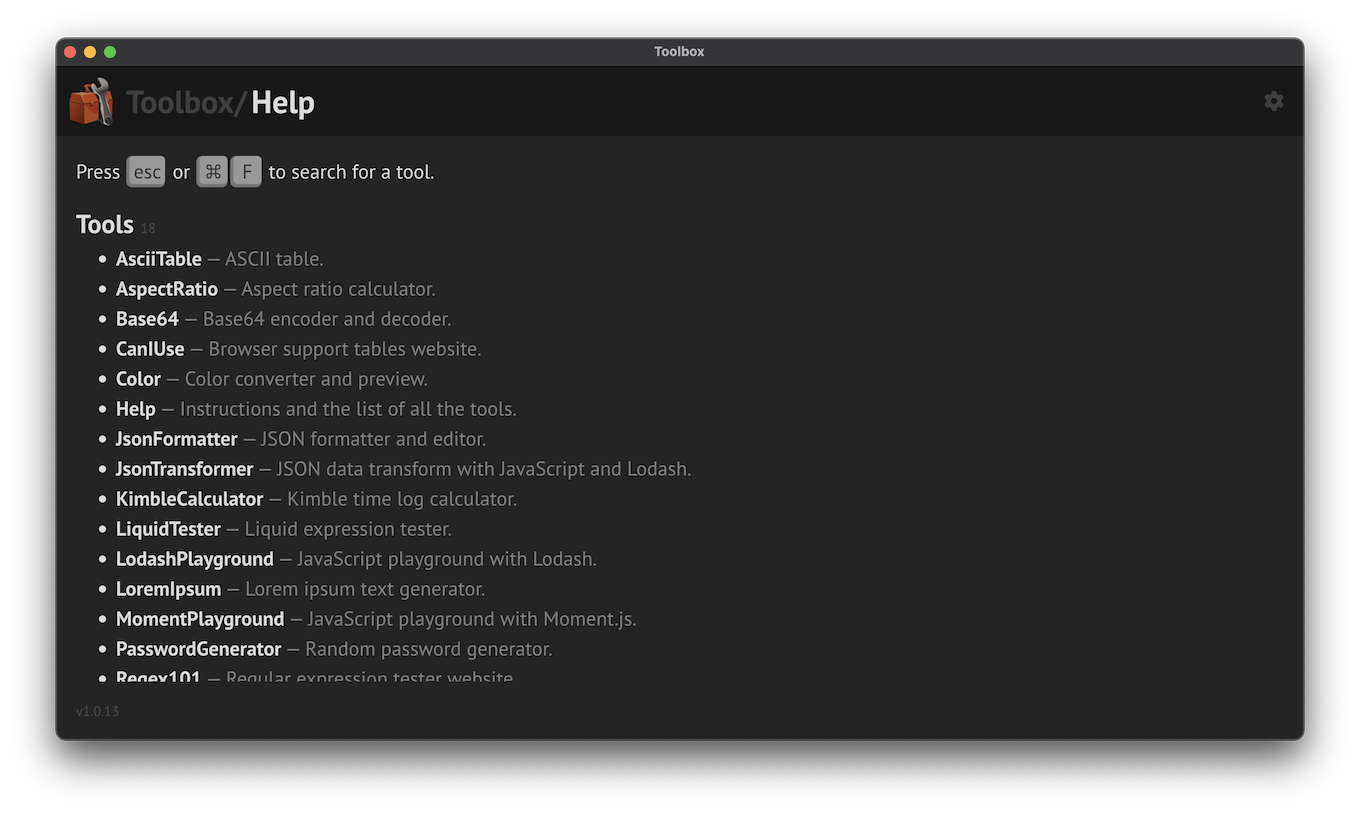
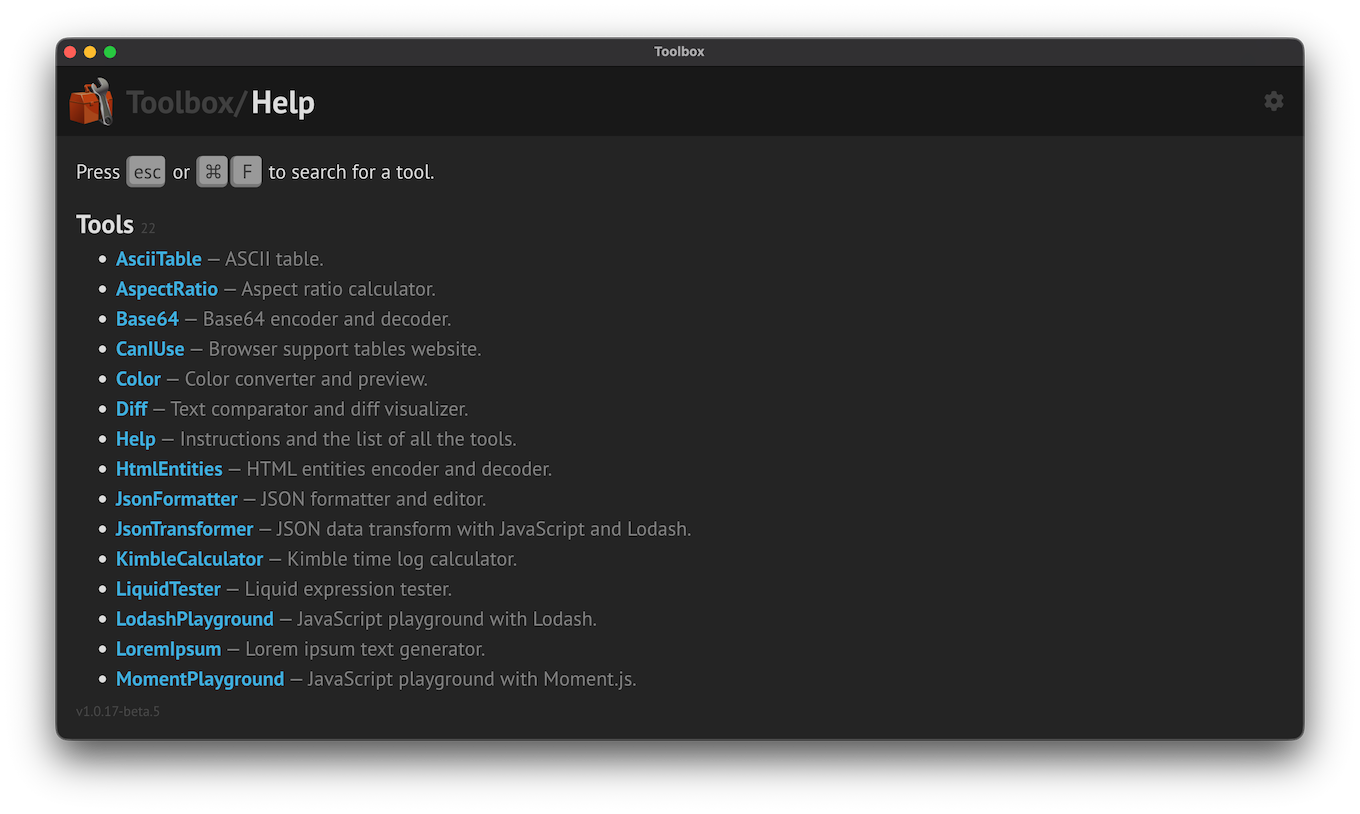
Added Diff tool

Changed region(s): [[0.0618, 0.3071, 0.525, 0.86], [0.0618, 0.0614, 0.0926, 0.0921]]

diff --git a/src/renderer/tools/Diff.tsx b/src/renderer/tools/Diff.tsx
@@ -1,0 +1,182 @@
+import React, { FC, useEffect, useRef, useState } from "react";
+import styled from "styled-components";
+import { CopyButton, PasteButton } from "../common/Buttons";
+import { Footer } from "../common/Footer";
+import { Unit } from "../common/Unit";
+import { Value } from "../common/Value";
+import { FieldLabel } from "../fields";
+import { usePersistedState } from "../persistedState";
+import { registerTool, ToolProps } from "../toolStore";
+import { displayName, reindent } from "../utils";
+import { DiffEditor, loader } from "@monaco-editor/react";
+import * as monaco from "monaco-editor/esm/vs/editor/editor.api";
+import type { editor } from "monaco-editor";
+
+loader.config({ monaco });
+
+const initialBefore = reindent(`
+  One
+  Twooo
+  Three
+  Four
+  Six
+  Seven
+  Seven
+  Seven
+  Eight
+  Nine
+  Ten
+  ---
+  hello world
+`);
+
+const initialAfter = reindent(`
+  One
+  Two
+  Three
+  Four
+  Five
+  Six
+  Seven
+  Eight
+  Nine
+  Ten
+  ---
+  Hello World!
+`);
+
+const Container = displayName(
+  "Container",
+  styled.div`
+    display: grid;
+    grid-template:
+      "header" 0fr
+      "editor" 1fr
+      / 1fr;
+    gap: var(--gap-size);
+    overflow: hidden;
+    height: 100%;
+  `,
+);
+
+interface HeaderProps {
+  $leftWidthPx?: number | null;
+}
+
+const Header = displayName(
+  "Header",
+  styled.div<HeaderProps>`
+    display: grid;
+    grid-template-columns: ${({ $leftWidthPx }) =>
+      $leftWidthPx ? `${$leftWidthPx}px 1fr` : "1fr 1fr"};
+    gap: var(--gap-size);
+  `,
+);
+
+const PaneHeader = displayName(
+  "PaneHeader",
+  styled.div`
+    display: flex;
+    align-items: center;
+    gap: var(--gap-size);
+  `,
+);
+
+const Diff: FC<ToolProps> = () => {
+  const [before, setBefore] = usePersistedState(Diff, "before", initialBefore);
+  const [after, setAfter] = usePersistedState(Diff, "after", initialAfter);
+  const editorRef = useRef<editor.IStandaloneDiffEditor | null>(null);
+  const [leftWidthPx, setLeftWidthPx] = useState<number | null>(null);
+  const [diffCount, setDiffCount] = useState<number>(0);
+
+  // Stable initial values: passed to DiffEditor only on mount so that
+  // @monaco-editor/react never calls model.setValue() during typing
+  // (it does so unconditionally whenever the `original`/`modified` props change).
+  const stableOriginal = useRef(before);
+  const stableModified = useRef(after);
+
+  // Last values Monaco reported back to us, used to tell user edits
+  // (Monaco → state) apart from external changes (paste → Monaco).
+  const syncedBefore = useRef(before);
+  const syncedAfter = useRef(after);
+
+  // Push external state changes (paste) into Monaco without touching
+  // the `original`/`modified` props (which would reset the cursor).
+  useEffect(() => {
+    if (before !== syncedBefore.current) {
+      syncedBefore.current = before;
+      editorRef.current?.getOriginalEditor().setValue(before);
+    }
+  }, [before]);
+
+  useEffect(() => {
+    if (after !== syncedAfter.current) {
+      syncedAfter.current = after;
+      editorRef.current?.getModifiedEditor().setValue(after);
+    }
+  }, [after]);
+
+  return (
+    <Container>
+      <Header $leftWidthPx={leftWidthPx}>
+        <PaneHeader>
+          <FieldLabel style={{ flexGrow: 1 }}>Before</FieldLabel>
+          <CopyButton name="before" state={before} />
+          <PasteButton name="before" setState={setBefore} />
+        </PaneHeader>
+        <PaneHeader>
+          <FieldLabel style={{ flexGrow: 1, marginLeft: "25px" }}>
+            After
+          </FieldLabel>
+          <CopyButton name="after" state={after} />
+          <PasteButton name="after" setState={setAfter} />
+        </PaneHeader>
+      </Header>
+      <DiffEditor
+        language="plaintext"
+        modified={stableModified.current}
+        options={{
+          fontSize: 16,
+          minimap: { enabled: false },
+          originalEditable: true,
+          parameterHints: { enabled: false },
+          quickSuggestions: false,
+          scrollBeyondLastLine: false,
+          suggestOnTriggerCharacters: false,
+        }}
+        original={stableOriginal.current}
+        theme="vs-dark"
+        onMount={(editor) => {
+          editorRef.current = editor;
+          const syncWidth = () =>
+            setLeftWidthPx(editor.getOriginalEditor().getLayoutInfo().width);
+          editor.getOriginalEditor().onDidLayoutChange(syncWidth);
+          syncWidth();
+          editor.onDidUpdateDiff(() =>
+            setDiffCount(editor.getLineChanges()?.length ?? 0),
+          );
+          editor.getOriginalEditor().onDidChangeModelContent(() => {
+            const value = editor.getOriginalEditor().getValue();
+            syncedBefore.current = value;
+            setBefore(value);
+          });
+          editor.getModifiedEditor().onDidChangeModelContent(() => {
+            const value = editor.getModifiedEditor().getValue();
+            syncedAfter.current = value;
+            setAfter(value);
+          });
+        }}
+      />
+      <Footer>
+        <Value>{diffCount}</Value>
+        <Unit> difference{diffCount === 1 ? "" : "s"} found.</Unit>
+      </Footer>
+    </Container>
+  );
+};
+
+registerTool({
+  component: Diff,
+  name: "Diff",
+  description: "Text comparator and diff visualizer.",
+});

diff --git a/src/renderer/utils.ts b/src/renderer/utils.ts
@@ -4,7 +4,7 @@ export const noop = (..._args: unknown[]) => {
   // comment to satisfy eslint
 };
 
-export const falsyToNull = <T>(value: T): T | null => (value ? value : null);
+export const falsyToNull = <T>(value: T): T | null => value || null;
 
 export const ignoreError = (error: unknown) => {
   console.error(error);
@@ -15,6 +15,7 @@ export const message = (error: unknown) =>
 
 export const gcd = (a: number, b: number): number => (b ? gcd(b, a % b) : a);
 
+// this is using an extra `data-name` attribute put on the element
 export const isNamedFocus = (name: string) => {
   if (!(document.activeElement instanceof HTMLElement)) {
     return false;
@@ -57,20 +58,22 @@ export const capitalize = (text: string) =>
   `${text[0].toUpperCase()}${text.slice(1)}`;
 
 export const repeat = (text: string, times = 1, separator = "") =>
-  Array(times).fill(text).join(separator);
+  new Array(times).fill(text).join(separator);
 
 export const reindent = (code: string, baseIndent = 0) => {
   const trimmed = code
-    .replace(/^[\s\n\r]+$/gm, "\n") // trim blanks
+    .replaceAll(/^[\t ]+$/gm, "") // trim blanks
     .replace(/^\n*/, "") // remove leading blanks
     .replace(/\n*$/, "") // remove trailing blanks
-    .replace(/\s+$/gm, ""); // remove trailing spaces from all lines
+    .replaceAll(/[\t ]+$/gm, ""); // remove trailing spaces from all lines
   // remove original base indent
-  const oldIndent = Array(/^ */.exec(trimmed)?.[0].length).fill(" ").join("");
-  const unindented = trimmed.replace(new RegExp("^" + oldIndent, "gm"), "");
+  const oldIndent = new Array(/^ */.exec(trimmed)?.[0].length)
+    .fill(" ")
+    .join("");
+  const unindented = trimmed.replaceAll(new RegExp("^" + oldIndent, "gm"), "");
   // add new base indent
-  const newIndent = Array(baseIndent).fill(" ").join("");
-  return unindented.replace(/^/gm, newIndent);
+  const newIndent = new Array(baseIndent).fill(" ").join("");
+  return unindented.replaceAll(/^/gm, newIndent);
 };
 
 export const formatJson = (obj: unknown) => JSON.stringify(obj, null, 2);

diff --git a/webpack.plugins.ts b/webpack.plugins.ts
@@ -1,4 +1,5 @@
 import type IForkTsCheckerWebpackPlugin from "fork-ts-checker-webpack-plugin";
+import MonacoWebpackPlugin from "monaco-editor-webpack-plugin";
 
 // eslint-disable-next-line @typescript-eslint/no-var-requires
 const ForkTsCheckerWebpackPlugin: typeof IForkTsCheckerWebpackPlugin = require("fork-ts-checker-webpack-plugin");
@@ -6,5 +7,8 @@ const ForkTsCheckerWebpackPlugin: typeof IForkTsCheckerWebpackPlugin = require("
 export const plugins = [
   new ForkTsCheckerWebpackPlugin({
     logger: "webpack-infrastructure",
+  }),
+  new MonacoWebpackPlugin({
+    languages: [],
   }),
 ];

diff --git a/src/renderer/tools/index.tsx b/src/renderer/tools/index.tsx
@@ -6,6 +6,7 @@ import "./AspectRatio";
 import "./Base64";
 import "./CanIUse";
 import "./Color";
+import "./Diff";
 import "./Help";
 import "./HtmlEntities";
 import "./JsonFormatter";

diff --git a/README.md b/README.md
@@ -38,6 +38,7 @@ If you fork this to build your own toolbox, you might want to change some things
 ![Help](docs/screenshot-help.png)
 ![Search](docs/screenshot-search.png)
 ![Json](docs/screenshot-json.png)
+![Diff](docs/screenshot-diff.png)
 ![Lodash](docs/screenshot-lodash.png)
 ![Base64](docs/screenshot-bsase64.png)
 ![Ascii](docs/screenshot-ascii.png)